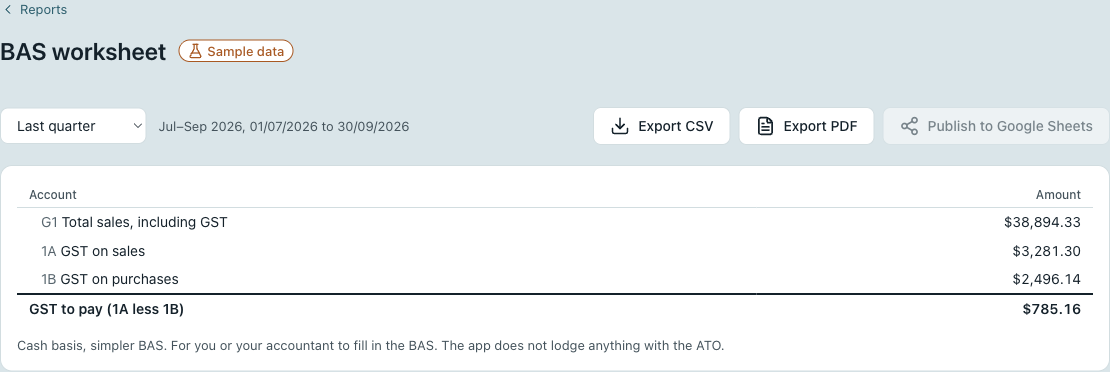
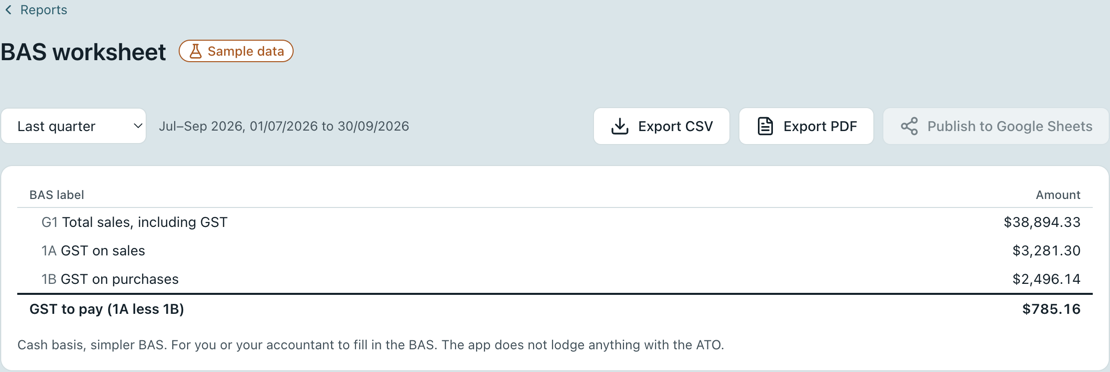
Polish folders 07-08: Customise beside the report, reconcile lines as a table, BAS label heading

diff --git a/src/renderer/bank/ReconcileSheet.tsx b/src/renderer/bank/ReconcileSheet.tsx
@@ -9,7 +9,9 @@ import type { BankAccountRow, ReconcileView } from '@shared/views';
 import { bridge } from '../bridge';
 import { Amount } from '../components/Amount';
 import { Button } from '../components/Button';
+import { DateCell } from '../components/DateCell';
 import { Sheet } from '../components/Sheet';
+import { Table, type TableColumn } from '../components/Table';
 import { plural } from '../import/import-text';
 import { routeHref } from '../routes';
 
@@ -19,6 +21,21 @@ const REFUSED = {
     'This account is already reconciled to that day or later. Choose a later statement.',
   difference: 'The books do not agree with the statement yet.',
 } as const;
+
+/** The waiting lines listed; the sheet says how many more there are. */
+const SHOWN = 20;
+
+const WAITING_COLUMNS: readonly TableColumn<ReconcileView['waiting'][number]>[] = [
+  { key: 'date', header: 'Date', fit: true, cell: (l) => <DateCell date={l.date} /> },
+  { key: 'description', header: 'Description', cell: (l) => l.description },
+  {
+    key: 'amount',
+    header: 'Amount',
+    align: 'end',
+    fit: true,
+    cell: (l) => <Amount cents={l.amount} />,
+  },
+];
 
 /** "18642.35" for the box. */
 const forBox = (cents: number) => formatCents(asCents(cents)).replace(/[$,]/g, '');
@@ -160,14 +177,20 @@ export function ReconcileSheet({
             </p>
             {check.waiting.length > 0 && (
               <>
-                <ul className="reconcile__lines">
-                  {check.waiting.slice(0, 20).map((l) => (
-                    <li key={l.id}>
-                      <span>{formatDateAU(l.date)}</span> <span>{l.description}</span>{' '}
-                      <Amount cents={l.amount} />
-                    </li>
-                  ))}
-                </ul>
+                <div className="reconcile__lines">
+                  <Table
+                    label="Lines not posted yet"
+                    columns={WAITING_COLUMNS}
+                    rows={check.waiting.slice(0, SHOWN)}
+                    rowKey={(l) => l.id}
+                  />
+                </div>
+                {check.waiting.length > SHOWN && (
+                  <p className="transfer__note">
+                    And {plural(check.waiting.length - SHOWN, 'more line', 'more lines')}, all in To
+                    review.
+                  </p>
+                )}
                 <a href={routeHref('to-review')} className="bank__link" onClick={onClose}>
                   Post them in To review
                 </a>

diff --git a/src/services/reports.ts b/src/services/reports.ts
@@ -101,6 +101,7 @@ export function getReport(
     return ok({
       title,
       periodText: `As at ${formatDateAU(asAt)}`,
+      rowHeading: 'Account',
       from: null,
       to: asAt,
       columns: built.columns,
@@ -133,6 +134,7 @@ export function getReport(
     return ok({
       title,
       periodText: `As at ${formatDateAU(base.to)}`,
+      rowHeading: 'Account',
       from: null,
       to: base.to,
       columns: built.columns,
@@ -169,6 +171,7 @@ export function getReport(
     return ok({
       title,
       periodText: withDates(base),
+      rowHeading: 'BAS label',
       from: base.from,
       to: base.to,
       columns: built.columns,
@@ -202,6 +205,7 @@ export function getReport(
   return ok({
     title,
     periodText: withDates(base),
+    rowHeading: 'Account',
     from: base.from,
     to: base.to,
     columns: withOwn.columns,

diff --git a/src/services/reports-sample.test.ts b/src/services/reports-sample.test.ts
@@ -103,6 +103,8 @@ describe('the BAS worksheet (spec 094)', () => {
   it('Jul–Sep: the GST to pay is the sample BAS payment', () => {
     const bas = report(plainRequest('bas'));
     expect(bas.periodText).toBe('Jul–Sep 2026, 01/07/2026 to 30/09/2026');
+    // Its rows are BAS labels, not accounts, and the heading over them says so.
+    expect(bas.rowHeading).toBe('BAS label');
     expect(figure(bas, 'net')).toBe(SAMPLE_FIGURES.basPaymentJulToSep);
     expect(bas.note).toContain('The app does not lodge anything with the ATO.');
     // 1A less 1B is the GST to pay, to the cent.

diff --git a/src/main/report-html.ts b/src/main/report-html.ts
@@ -48,7 +48,7 @@ tr.grand td { border-top: 2px solid #000; font-weight: 700; }
 `;
 
 export function reportHtml(view: ReportView, business: string): string {
-  const head = `<tr><th>Account</th>${view.columns.map((c) => `<th class="n">${escapeHtml(c.label)}</th>`).join('')}</tr>`;
+  const head = `<tr><th>${escapeHtml(view.rowHeading)}</th>${view.columns.map((c) => `<th class="n">${escapeHtml(c.label)}</th>`).join('')}</tr>`;
   const body = view.rows
     .map((row) => {
       const label = `${row.code === null ? '' : `${escapeHtml(row.code)} `}${escapeHtml(row.label)}`;

diff --git a/src/renderer/reports/reports.css b/src/renderer/reports/reports.css
@@ -53,14 +53,10 @@
   width: 320px;
 }
 
-@media (max-width: 1499px) {
-  .report-page__body > .side-panel {
-    position: absolute;
-    inset-block-start: 0;
-    inset-inline-end: 0;
-    z-index: 2;
-    box-shadow: var(--shadow-raised);
-  }
+/* Beside the report at every width, never over it: the point of the panel is to watch the
+   figures change. A wide report scrolls sideways inside its own surface instead. */
+.report-page__body > .side-panel {
+  flex-shrink: 0;
 }
 
 .report-page__check,

diff --git a/src/shared/reports.ts b/src/shared/reports.ts
@@ -156,6 +156,8 @@ export interface ReportView {
   readonly title: string;
   /** In words: "Oct–Dec 2026", "As at 30/09/2026". */
   readonly periodText: string;
+  /** The heading over the rows' names: "Account", or "BAS label" on the BAS worksheet. */
+  readonly rowHeading: string;
   readonly from: CalendarDate | null;
   readonly to: CalendarDate;
   readonly columns: readonly ReportColumn[];

diff --git a/src/domain/csv.ts b/src/domain/csv.ts
@@ -45,7 +45,7 @@ export function reportCsv(view: ReportView, business: string): string {
     [csvText(view.title)],
     [csvText(view.periodText)],
     [],
-    ['Code', 'Account', ...view.columns.map((c) => csvText(c.label))],
+    ['Code', csvText(view.rowHeading), ...view.columns.map((c) => csvText(c.label))],
   ];
   const body = view.rows.map((row) => [
     csvText(row.code ?? ''),

diff --git a/src/renderer/test-bridge.ts b/src/renderer/test-bridge.ts
@@ -553,6 +553,7 @@ const money = (cents: number, accountId: string | null = null): ReportCell => ({
 export const PROFIT_AND_LOSS: ReportView = {
   title: 'Profit and loss',
   periodText: 'Oct–Dec 2026, 01/10/2026 to 21/11/2026',
+  rowHeading: 'Account',
   from: date('2026-10-01'),
   to: date('2026-11-21'),
   columns: [{ key: 'p0', label: 'Oct–Dec 2026' }],

diff --git a/src/renderer/reports/ReportTable.tsx b/src/renderer/reports/ReportTable.tsx
@@ -23,7 +23,7 @@ export function ReportTable({
       <table className="report" aria-label={view.title}>
         <thead>
           <tr>
-            <th scope="col">Account</th>
+            <th scope="col">{view.rowHeading}</th>
             {view.columns.map((c) => (
               <th key={c.key} scope="col" className="report__n">
                 {c.label}

diff --git a/src/main/report-html.test.ts b/src/main/report-html.test.ts
@@ -7,6 +7,7 @@ import { escapeHtml, reportHtml } from './report-html';
 const view: ReportView = {
   title: 'Profit and loss',
   periodText: 'Oct–Dec 2026',
+  rowHeading: 'Account',
   from: '2026-10-01' as CalendarDate,
   to: '2026-12-31' as CalendarDate,
   columns: [{ key: 'p0', label: 'Oct–Dec 2026' }],

diff --git a/src/domain/reports.test.ts b/src/domain/reports.test.ts
@@ -343,6 +343,7 @@ describe('CSV export (spec 098)', () => {
     const view: ReportView = {
       title: 'Profit and loss',
       periodText: 'Oct–Dec 2026',
+      rowHeading: 'Account',
       from: d('2026-10-01'),
       to: d('2026-12-31'),
       columns: [{ key: 'p0', label: 'Oct–Dec 2026' }],

diff --git a/src/renderer/pages/BankPage.css b/src/renderer/pages/BankPage.css
@@ -136,7 +136,7 @@
 }
 
 .reconcile__lines {
-  margin: 0;
-  padding-inline-start: var(--space-4);
+  max-height: 40vh;
+  overflow: auto;
   font-size: var(--font-size-label);
 }
